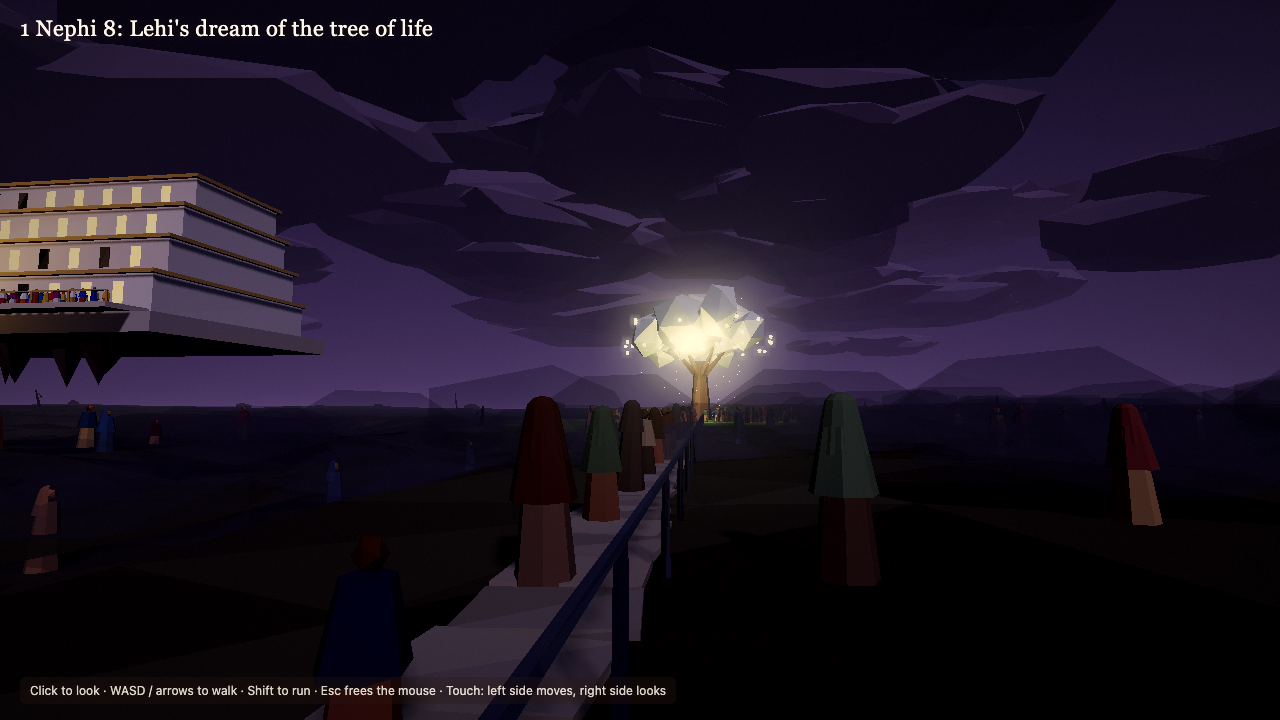
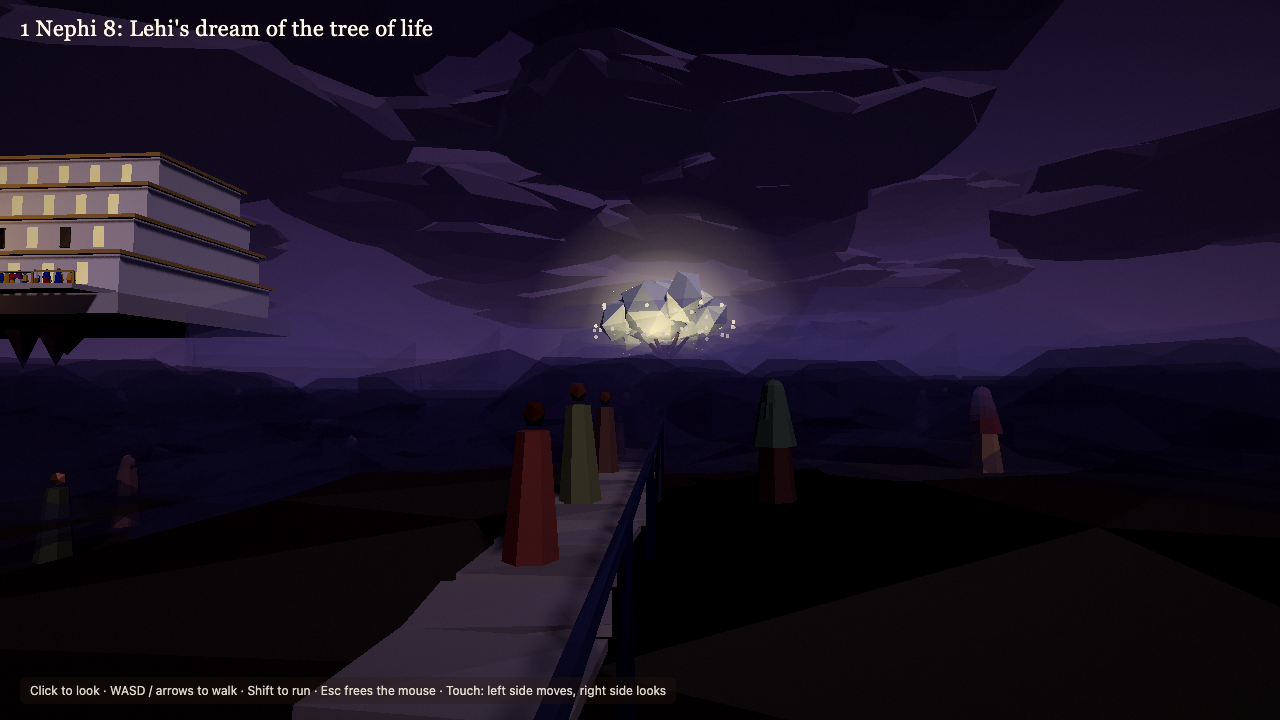
feat: polish lowpoly scenes bom-01 to bom-06

diff --git a/styles/lowpoly/scenes/bom-02.js b/styles/lowpoly/scenes/bom-02.js
@@ -3,7 +3,8 @@
 import * as THREE from 'three';
 import { tent, fire, river, water, channelFlats, camel, goat, jar, bundle, person, ridge, box } from './lib/bom-01-kit.js';
 
-const RIVER = [[-10, 220], [-14, 150], [-6, 90], [-14, 40], [-10, 0], [-16, -50], [-8, -100], [-12, -140]];
+const RIVER = [[-10, 220], [-14, 150], [-6, 90], [-14, 40], [-10, 0], [-14, -30], [-12, -60]];
+const SEA = { rect: [0, -270, 1100, 460] };
 const ALTAR = [-2, -14];
 const LEHI = [-3, 3];
 
@@ -25,7 +26,7 @@ export default {
   grade: { saturation: 1.12, contrast: 1.06, vignette: 0.38, shadowTint: '#3a2a50', highlightTint: '#ffe2b8' },
   shadow: { center: [0, -6], radius: 60 },
 
-  player: { start: [7, 16], yaw: 0.3, pitch: -0.03, eye: 1.65, speed: 4.5 },
+  player: { start: [9, 22.5], yaw: 0.06, pitch: -0.11, eye: 1.65, speed: 4.5 },
 
   terrain: {
     size: 1100,
@@ -36,35 +37,34 @@ export default {
     flats: [
       { x: 0, z: 0, r: 60, falloff: 40, height: 0 },
       { x: 0, z: 120, r: 50, falloff: 40, height: 0.5 },
-      { x: 0, z: -80, r: 40, falloff: 30, height: -0.3 },
       ...sides(-112),
       ...sides(112),
-      { x: 0, z: -260, r: 150, falloff: 60, height: -4 },
       ...channelFlats(RIVER, { r: 3.2, falloff: 5, depth: 1.5, step: 4 }),
+      { x: 0, z: -240, r: 170, falloff: 45, height: -4 },
+      { x: 9, z: 23, r: 4, falloff: 12, height: 4 },
     ],
     colors: { ground: '#c49a6c', groundAlt: '#b08458', grass: '#8a8a4a', high: '#a86a4a', rock: '#8e5a42' },
     patches: [
       { x: 14, z: 0, r: 30, color: '#b89a74', strength: 0.5, rough: 0.4 },
       { x: -12, z: 30, r: 16, color: '#7a8a46', strength: 0.6, rough: 0.6 },
       { x: -14, z: -40, r: 14, color: '#7a8a46', strength: 0.6, rough: 0.6 },
-      { x: -10, z: -110, r: 18, color: '#7a8a46', strength: 0.5, rough: 0.6 },
-      { x: 0, z: -110, r: 50, color: '#dcc49a', strength: 0.8, rough: 0.4 },
+      { x: 0, z: -58, r: 60, color: '#dcc49a', strength: 0.7, rough: 0.4 },
     ],
   },
 
   scatter: [
-    { type: 'tree', count: 40, center: [-10, 0], ring: [5, 120], spacing: 4, seed: 19, avoid: [{ rect: [12, 4, 34, 40] }, { rect: [4, 10, 12, 16] }], props: { kind: 'broad', h: 1.3, leaf: '#6f7a3a' } },
-    { type: 'tree', count: 25, points: [[-22, 36], [-3, 28], [-24, 12], [-4, 55], [-26, -20], [-2, -36], [-26, -48], [-4, -70], [-22, -90], [0, -100], [-26, -130], [-2, -150], [-24, -165], [-4, 80], [-24, 100], [-2, 120], [-26, 70], [-30, -8], [-1, -125], [-28, 50], [4, -190], [-24, -200], [-30, 140], [2, 150], [-31, -110]], props: { kind: 'palm', h: 7.5, leaf: '#5d7a36' } },
-    { type: 'tree', count: 14, center: [0, -20], ring: [30, 110], spacing: 14, seed: 6, avoid: [{ rect: [-10, 0, 30, 400] }, { rect: [18, 4, 40, 50] }], props: { kind: 'broad', h: 3.2, leaf: '#7a7f42' } },
-    { type: 'rock', count: 50, center: [0, -20], ring: [35, 200], spacing: 10, seed: 7, avoid: [{ rect: [-10, 0, 30, 500] }], props: { color: '#9a6a4e' } },
-    { type: 'rubble', count: 16, center: [10, 0], ring: [10, 60], seed: 8, avoid: [{ rect: [-10, 0, 14, 500] }], props: { color: '#a07a5a', count: 5, radius: 2, size: [0.12, 0.35] } },
+    { type: 'tree', count: 40, center: [-10, 0], ring: [5, 120], spacing: 4, seed: 19, avoid: [{ rect: [12, 4, 34, 40] }, { rect: [4, 10, 12, 16] }, { rect: [9, 23, 10, 10] }, SEA], props: { kind: 'broad', h: 1.3, leaf: '#6f7a3a' } },
+    { type: 'tree', count: 15, points: [[-22, 36], [-3, 28], [-24, 12], [-4, 55], [-26, -20], [-2, -36], [-26, -48], [-4, 80], [-24, 100], [-2, 120], [-26, 70], [-30, -8], [-28, 50], [-30, 140], [2, 150]], props: { kind: 'palm', h: 7.5, leaf: '#5d7a36' } },
+    { type: 'tree', count: 14, center: [0, -20], ring: [30, 110], spacing: 14, seed: 6, avoid: [{ rect: [-10, 0, 30, 400] }, { rect: [18, 4, 40, 50] }, SEA], props: { kind: 'broad', h: 3.2, leaf: '#7a7f42' } },
+    { type: 'rock', count: 50, center: [0, -20], ring: [35, 200], spacing: 10, seed: 7, avoid: [{ rect: [-10, 0, 30, 500] }, { rect: [9, 26, 20, 20] }, SEA], props: { color: '#9a6a4e' } },
+    { type: 'rubble', count: 16, center: [10, 0], ring: [10, 60], seed: 8, avoid: [{ rect: [-10, 0, 14, 500] }, { rect: [9, 26, 20, 20] }], props: { color: '#a07a5a', count: 5, radius: 2, size: [0.12, 0.35] } },
   ],
 
   custom(ctx) {
     ridge(ctx, { path: [[-58, 210], [-60, 100], [-56, 0], [-62, -90]], size: [5, 10], color: '#94604a', step: 11 });
     ridge(ctx, { path: [[60, 210], [62, 100], [58, 0], [62, -90]], size: [5, 10], color: '#94604a', step: 11 });
     river(ctx, { path: RIVER, width: 7, y: -0.75, color: '#4f8a94' });
-    water(ctx, { x: 0, z: -300, w: 900, d: 300, y: -0.9, color: '#3a7a92', opacity: 0.95, amp: 0.18, seg: 6 });
+    water(ctx, { x: 0, z: -250, w: 900, d: 420, y: -0.9, color: '#3a7a92', opacity: 0.95, amp: 0.18, seg: 6 });
 
     // The camp: tents on the east bank, Lehi's in front.
     const tents = [

diff --git a/styles/lowpoly/scenes/bom-01.js b/styles/lowpoly/scenes/bom-01.js
@@ -27,7 +27,7 @@ function stall(ctx, { x, z, rot = 0, cloth = '#a8452e' }) {
 export default {
   title: '1 Nephi 1: Lehi prophesies in Jerusalem',
   seed: 101,
-  fov: 62,
+  fov: 46,
   exposure: 1.0,
 
   sun: { direction: [-0.55, 0.62, 0.35], color: '#ffe2b0', intensity: 2.8 },
@@ -40,7 +40,7 @@ export default {
   grade: { saturation: 1.1, contrast: 1.05, vignette: 0.35, shadowTint: '#3a3050', highlightTint: '#fff0d0' },
   shadow: { center: [0, -10], radius: 70 },
 
-  player: { start: [0, 13], yaw: 0, pitch: 0.03, eye: 1.65, speed: 4.5 },
+  player: { start: [0, 12.6], yaw: 0, pitch: 0.0, eye: 1.65, speed: 4.5 },
 
   terrain: {
     size: 1100,
@@ -107,8 +107,8 @@ export default {
     box(ctx, { x: 0, z: -21, y: 7.2, w: 19, h: 0.6, d: 7, color: '#c7b28a' });
     for (const cx of [-6, -2, 2, 6]) ctx.builders.column(ctx, { x: cx, z: -17.3, h: 6.8, radius: 0.38, color: '#e9dcbc', broken: false });
     box(ctx, { x: 0, z: -16.8, y: 6.7, w: 15, h: 0.6, d: 1.4, color: '#d2bf98', collide: false });
-    box(ctx, { x: LEHI[0], z: LEHI[1] - 3.5, y: -0.2, w: 9, h: 1.3, d: 5, color: '#cdb994' });
-    for (let i = 0; i < 3; i++) box(ctx, { x: LEHI[0], z: LEHI[1] - 0.6 + i * 0.45, y: -0.2, w: 4.5, h: 1.1 - i * 0.4, d: 0.46, color: '#d6c39c' });
+    box(ctx, { x: LEHI[0], z: LEHI[1] - 3.5, y: -0.2, w: 9, h: 2.4, d: 5, color: '#cdb994' });
+    for (let i = 0; i < 5; i++) box(ctx, { x: LEHI[0], z: LEHI[1] - 0.6 + i * 0.45, y: -0.2, w: 4.5, h: 2.2 - i * 0.42, d: 0.46, color: '#d6c39c' });
     // Steps the player starts on, at the south edge of the square.
     box(ctx, { x: 0, z: 14, y: -0.2, w: 5, h: 1.3, d: 4, color: '#cdb994' });
     for (let i = 0; i < 3; i++) box(ctx, { x: 0, z: 11.6 - i * 0.5, y: -0.2, w: 5, h: 1.0 - i * 0.35, d: 0.5, color: '#d6c39c' });
@@ -136,7 +136,7 @@ export default {
     cityWall(ctx, { path: [[-100, -175], [70, -178], [100, -60], [96, 98], [-98, 96], [-112, -60], [-100, -175]], h: 9, color: '#cbb994' });
 
     // Lehi on the porch steps, arms raised as he testifies.
-    person(ctx, { x: LEHI[0], z: LEHI[1] - 1.6, face: [0, 25], scale: 1.08, robe: '#e8dcc0', mantle: '#4a5a7a', skin: '#a8754f', arms: 'out' });
+    person(ctx, { x: LEHI[0], z: LEHI[1] - 1.6, face: [0, 25], scale: 1.15, robe: '#e8dcc0', mantle: '#4a5a7a', skin: '#a8754f', arms: 'out' });
     // Mockers in front, gesturing at him, and onlookers on the rooftops.
     for (const [x, z, robe, mantle] of [[-2.2, -5.2, '#7a3a3a', '#a34f32'], [2.6, -5.0, '#94704e', '#3f4d5e'], [-4.2, -3.2, '#6e5a44', '#c9b48e'], [4.4, -4.0, '#a0825c', '#8a2e2e']]) {
       person(ctx, { x, z, face: [LEHI[0], LEHI[1] - 2], robe, mantle, skin: '#9b6a46', arms: 'out' });

diff --git a/styles/lowpoly/scenes/bom-04.js b/styles/lowpoly/scenes/bom-04.js
@@ -12,7 +12,7 @@ const LIFT = 11;
 const rodPoints = [];
 for (let z = 54; z > -40; z -= 1.5) rodPoints.push([0.3 + Math.sin(z * 0.05) * 0.25, z]);
 const pathX = (z) => Math.sin(z * 0.05) * 0.25;
-const rodHolders = rodPoints.filter((_, i) => i % 2 === 0 && i > 3).map(([x, z]) => [x - 0.5, z + 0.4]);
+const rodHolders = rodPoints.filter(([, z], i) => i % 2 === 0 && z < 28).map(([x, z]) => [x - 0.5, z + 0.4]);
 
 export default {
   title: "1 Nephi 8: Lehi's dream of the tree of life",
@@ -29,7 +29,7 @@ export default {
   grade: { saturation: 1.05, contrast: 1.08, vignette: 0.55, shadowTint: '#1a1840', highlightTint: '#fff4d8' },
   shadow: { center: [0, -10], radius: 70 },
 
-  player: { start: [1.6, 30], yaw: 0.12, pitch: 0.08, eye: 1.65, speed: 4.5 },
+  player: { start: [1.4, 33], yaw: 0.06, pitch: 0.05, eye: 1.65, speed: 4.5 },
 
   terrain: {
     size: 900,
@@ -127,7 +127,7 @@ export default {
     const light = new THREE.PointLight('#fff4d8', 70, 50, 1.3);
     light.position.set(TREE[0], ty + 6, TREE[1] + 9);
     ctx.scene.add(light);
-    ctx.effects.halo({ position: [TREE[0], ty + 10, TREE[1]], size: 30, opacity: 0.22, color: '#fff2d0' });
+    ctx.effects.halo({ position: [TREE[0], ty + 10, TREE[1]], size: 40, opacity: 0.32, color: '#fff2d0' });
     ctx.effects.halo({ position: [TREE[0], ty + 10, TREE[1]], size: 10, opacity: 0.2, color: '#ffffff' });
     ctx.effects.motes({ position: [TREE[0], ty, TREE[1]], radius: 9, height: 16, count: 160, color: '#fff6dc' });
     ctx.effects.ring({ position: [TREE[0], ty + 0.05, TREE[1]], radius: 14, width: 6, color: '#fff0c0', opacity: 0.25 });
@@ -167,7 +167,9 @@ export default {
     ctx.scene.add(glowUnder);
 
     // Mist of darkness over the middle stretch of the path.
-    mist(ctx, { x: 0, z: 6, w: 40, d: 22, count: 70, color: '#2a2632', opacity: 0.38, height: [-0.5, 1.6], size: [1.5, 3.5], seed: 3 });
-    mist(ctx, { x: 24, z: 0, w: 30, d: 50, count: 40, color: '#2a2632', opacity: 0.38, height: [-0.5, 2], size: [2, 4], seed: 5 });
+    mist(ctx, { x: 0, z: 6, w: 56, d: 30, count: 200, color: '#2a2634', opacity: 0.55, height: [-0.6, 1.2], size: [2.2, 4], seed: 3, drift: 0.5 });
+    mist(ctx, { x: 0, z: 6, w: 40, d: 26, count: 60, color: '#4c4660', opacity: 0.3, height: [1.2, 2.2], size: [2.5, 4.5], seed: 9, drift: 0.6 });
+    mist(ctx, { x: 30, z: -4, w: 34, d: 60, count: 70, color: '#2a2634', opacity: 0.45, height: [-0.6, 1.4], size: [3, 5], seed: 5 });
+    mist(ctx, { x: -30, z: 14, w: 26, d: 40, count: 40, color: '#2a2634', opacity: 0.4, height: [-0.6, 1.2], size: [3, 5], seed: 6 });
   },
 };

diff --git a/styles/lowpoly/scenes/bom-06.js b/styles/lowpoly/scenes/bom-06.js
@@ -8,7 +8,7 @@ const TRAIL = Array.from({ length: 40 }, (_, i) => {
   const t = i / 39;
   return [2 + (PEAK[0] - 2) * t + Math.sin(t * 9) * 6 * (1 - t), -6 + (PEAK[1] + 6) * t];
 });
-const NEPHI_T = 0.2;
+const NEPHI_T = 0.14;
 
 export default {
   title: "1 Nephi 16:18-32: Nephi's broken bow",
@@ -74,7 +74,7 @@ export default {
     // The family, hungry and murmuring: sitting, kneeling, heads bowed.
     const family = [
       [-3.5, 2.5, '#e2d6bc', '#5a6a8a', true], [-4.8, 4.2, '#8a5a6a', '#c9b48e', true], [1.6, 4.5, '#7a4e36', '#a34f32', false], [2.6, 2.6, '#6e5a44', '#3f4d5e', false],
-      [-1.2, 0.2, '#a0825c', '#556246', true], [0.8, 1.0, '#94704e', null, true], [-6.5, 7.5, '#d8cdb5', '#6d3b2e', true], [4.2, 6.5, '#4f5a6b', '#8a7a5a', true], [-8, 2, '#b59a72', '#5a3d2b', true],
+      [-1.2, 0.2, '#a0825c', '#556246', true], [0.8, 1.0, '#94704e', null, true], [-7.4, 5.6, '#d8cdb5', '#6d3b2e', true], [4.2, 6.5, '#4f5a6b', '#8a7a5a', true], [-8, 2, '#b59a72', '#5a3d2b', true],
     ];
     for (const [x, z, robe, mantle, kneel] of family) person(ctx, { x, z, face: [-1 + r.range(-2, 2), 3 + r.range(-2, 2)], robe, mantle: mantle ?? undefined, skin: '#9b6a46', hood: r() < 0.5, kneel });
     for (const [x, z] of [[-2.8, 5.8], [3.4, 5.4]]) person(ctx, { x, z, face: [-1, 3], robe: '#c4b090', skin: '#a87652', scale: 0.6, kneel: true });
@@ -82,7 +82,7 @@ export default {
     camel(ctx, { x: -16, z: -6, rot: 1.2, sitting: true });
     for (let i = 0; i < 8; i++) {
       const x = r.range(-12, 12), z = r.range(-8, 10);
-      if (tents.some(([tx, tz]) => Math.hypot(tx - x, tz - z) < 4) || Math.hypot(x + 1, z - 3) < 4) continue;
+      if (tents.some(([tx, tz]) => Math.hypot(tx - x, tz - z) < 4) || Math.hypot(x + 1, z - 3) < 4 || Math.hypot(x + 3, z - 9) < 5) continue;
       if (r() < 0.5) jar(ctx, { x, z, size: 0.5 });
       else bundle(ctx, { x, z, size: 0.7, color: r.pick(['#9a8462', '#7a5a3c']) });
     }

diff --git a/styles/lowpoly/scenes/bom-03.js b/styles/lowpoly/scenes/bom-03.js
@@ -24,7 +24,7 @@ export default {
   grade: { saturation: 1.05, contrast: 1.08, vignette: 0.5, shadowTint: '#141a40', highlightTint: '#ffd8a0' },
   shadow: { center: [0, -12], radius: 50 },
 
-  player: { start: [0, -17.5], yaw: -0.42, pitch: 0.03, eye: 1.65, speed: 4 },
+  player: { start: [1.4, -20.2], yaw: -0.4, pitch: -0.04, eye: 1.65, speed: 4 },
 
   terrain: {
     size: 900,
@@ -111,8 +111,8 @@ export default {
       ring.rotation.y = Math.PI / 2;
       plates.add(ring);
     }
-    plates.position.set(0, 1.08, 0.3);
-    plates.scale.setScalar(1.4);
+    plates.position.set(0, 0.98, 0.34);
+    plates.scale.setScalar(0.95);
     plates.rotation.x = -0.5;
     nephi.add(plates);
     const sword = new THREE.Mesh(new THREE.BoxGeometry(0.05, 0.9, 0.02), new THREE.MeshStandardMaterial({ color: '#c8ccd4', metalness: 0.9, roughness: 0.25, flatShading: true }));
@@ -134,6 +134,9 @@ export default {
     const lampLight = new THREE.PointLight('#ffb460', 8, 8, 1.6);
     lampLight.position.set(ZORAM[0] + 0.2, ctx.heightAt(...ZORAM) + 1.3, ZORAM[1] + 0.4);
     ctx.scene.add(lampLight);
+    const fill = new THREE.PointLight('#ffc888', 5, 7, 1.6);
+    fill.position.set(NEPHI[0] - 1.2, ctx.heightAt(...NEPHI) + 1.8, NEPHI[1] + 2.4);
+    ctx.scene.add(fill);
     ctx.onFrame((t) => (lampLight.intensity = 8 * (0.9 + Math.sin(t * 9) * 0.06 + Math.sin(t * 23) * 0.04)));
 
     for (const [x, z] of [[12.5, -25], [13.2, -26], [-16, -20], [-17, -21], [15, -40]]) jar(ctx, { x, z, size: 0.7, color: '#7a4a2e' });

diff --git a/styles/lowpoly/scenes/lib/bom-01-kit.js b/styles/lowpoly/scenes/lib/bom-01-kit.js
@@ -109,12 +109,14 @@ export function tent(ctx, s) {
     ctx.solid.add(geo, { position: [x, y, z], rotation: [0, rot, 0], color: col, jitter: 0.03 });
   };
   tri([[w / 2, 0, -d / 2], [-w / 2, 0, -d / 2], [0, h, -d / 2]], color);
-  tri([[-w / 2 + 0.3, 0, d / 2 - 0.5], [w / 2 - 0.3, 0, d / 2 - 0.5], [0, h - 0.4, d / 2 - 0.5]], inner);
+  tri([[-w / 2, 0, d / 2], [w / 2, 0, d / 2], [0, h, d / 2]], color);
+  const door = flap ? 0.2 : 0.3, top = h * (flap ? 0.74 : 0.82);
+  tri([[-w * door, 0, d / 2 + 0.02], [w * door, 0, d / 2 + 0.02], [0, top, d / 2 + 0.02]], inner);
   if (flap) {
-    tri([[-w / 2, 0, d / 2], [-w * 0.18, 0, d / 2 + 0.6], [-w * 0.12, h * 0.85, d / 2 - 0.1]], stripe);
-    tri([[w * 0.18, 0, d / 2 + 0.6], [w / 2, 0, d / 2], [w * 0.12, h * 0.85, d / 2 - 0.1]], stripe);
+    tri([[0, top + 0.04, d / 2 + 0.05], [-w * 0.36, 0, d / 2 + 0.2], [-w * door, 0, d / 2 + 0.05]], stripe);
+    tri([[0, top + 0.04, d / 2 + 0.05], [w * door, 0, d / 2 + 0.05], [w * 0.36, 0, d / 2 + 0.2]], stripe);
   }
-  for (const lz of [d / 2 + 0.15, -d / 2 - 0.15]) {
+  for (const lz of [d / 2 - 0.1, -d / 2 + 0.1]) {
     const [px, pz] = at(0, lz);
     ctx.solid.add(new THREE.CylinderGeometry(0.05, 0.06, h + 0.4, 5), { position: [px, y + (h + 0.4) / 2, pz], color: '#5b4330' });
   }

diff --git a/styles/lowpoly/scenes/bom-05.js b/styles/lowpoly/scenes/bom-05.js
@@ -22,7 +22,7 @@ export default {
   grade: { saturation: 1.12, contrast: 1.06, vignette: 0.4, shadowTint: '#3a2a60', highlightTint: '#ffe0b8' },
   shadow: { center: [0, -4], radius: 40 },
 
-  player: { start: [2.6, 5.2], yaw: 0.26, pitch: -0.2, eye: 1.65, speed: 4 },
+  player: { start: [1.2, 2.9], yaw: 0.1, pitch: -0.26, eye: 1.65, speed: 4 },
 
   terrain: {
     size: 1000,
@@ -42,7 +42,7 @@ export default {
 
   custom(ctx) {
     const r = ctx.rand;
-    tent(ctx, { x: 0, z: -6, rot: 0, w: 6, d: 7, h: 3, color: '#3e2f26', stripe: '#6e5640', panels: 5 });
+    tent(ctx, { x: 0, z: -6, rot: 0, w: 6, d: 7, h: 3, color: '#644a36', stripe: '#a0805a', panels: 5 });
     const others = [
       [-10, -2, 0.7], [-13, -12, 1.1], [10, -10, -0.8], [-4, -18, 0.2], [8, -21, -0.3], [15, 0, -1.4], [-18, 4, 1.4],
     ];
